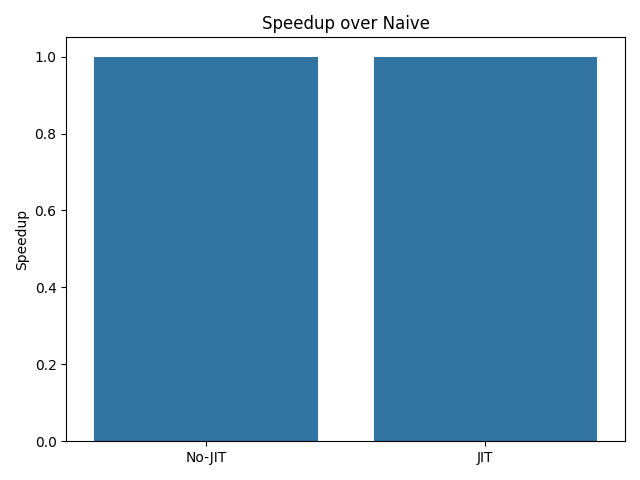
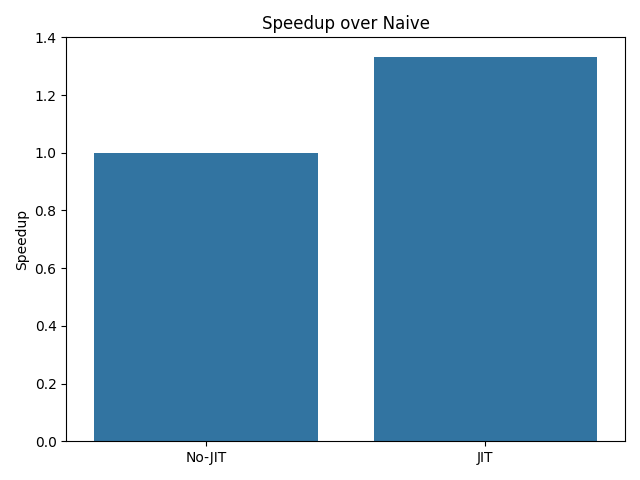
Fixed bug in JIT never being enabled, reverted NCC changes

diff --git a/src/cv2ext/metrics/_ncc.py b/src/cv2ext/metrics/_ncc.py
@@ -26,8 +26,6 @@ _log = logging.getLogger(__name__)
 
 try:
     from numba import jit  # type: ignore[import-untyped]
-
-    from cv2ext.jitfuncs import grayscale_mean, grayscale_std
 except ImportError:
     jit = None
     if _FLAGSOBJ.USEJIT:
@@ -36,16 +34,15 @@ except ImportError:
         )
 
 
-def _get_ncc_impl() -> Callable[[np.ndarray, np.ndarray], float]:
+def _nccjit(
+    nccfunc: Callable[[np.ndarray, np.ndarray], float],
+) -> Callable[[np.ndarray, np.ndarray], float]:
     if _FLAGSOBJ.USEJIT and jit is not None:
-        jitncc: Callable[[np.ndarray, np.ndarray], float] = jit(
-            _core_ncc_jit,
-            nopython=True,
-        )
-        return jitncc
-    return _core_ncc
+        nccfunc = jit(nccfunc, nopython=True)
+    return nccfunc
 
 
+@_nccjit
 def _core_ncc(
     image1: np.ndarray,
     image2: np.ndarray,
@@ -66,35 +63,6 @@ def _core_ncc(
         np.sum(image1_numerator * image2_numerator)
         / (np.sqrt(np.sum(image1_numerator**2)) * np.sqrt(np.sum(image2_numerator**2))),
     )
-
-    # clamp to [-1, 1] incase of floating point errors
-    return max(min(1.0, val), -1.0)
-
-
-def _core_ncc_jit(
-    image1: np.ndarray,
-    image2: np.ndarray,
-) -> float:
-    image1 = image1.astype(np.float32)
-    image2 = image2.astype(np.float32)
-
-    img1mean = grayscale_mean(image1)
-    img2mean = grayscale_mean(image2)
-
-    img1std = grayscale_std(image1, img1mean)
-    img2std = grayscale_std(image2, img2mean)
-
-    if img1std == 0.0 or img2std == 0.0:
-        return 0.0
-
-    image1_numerator = image1 - img1mean / img1std
-    image2_numerator = image2 - img2mean / img2std
-
-    image_numsum = np.sum(image1_numerator * image2_numerator)
-    image1_denomsum = np.sqrt(np.sum(image1_numerator**2))
-    image2_denomsum = np.sqrt(np.sum(image2_numerator**2))
-
-    val = float(image_numsum / (image1_denomsum * image2_denomsum))
 
     # clamp to [-1, 1] incase of floating point errors
     return max(min(1.0, val), -1.0)
@@ -155,4 +123,4 @@ def ncc(
         image1 = cv2.resize(image1, size, interpolation=cv2.INTER_LINEAR)
         image2 = cv2.resize(image2, size, interpolation=cv2.INTER_LINEAR)
 
-    return _get_ncc_impl()(image1, image2)
+    return _core_ncc(image1, image2)

diff --git a/src/cv2ext/__init__.py b/src/cv2ext/__init__.py
@@ -186,11 +186,11 @@ def enable_jit(*, on: bool | None = None) -> None:
     """
     if on is None:
         on = True
-    _FLAGS.USEJIT = on
+    _FLAGSOBJ.USEJIT = on
     _log.info(f"JIT is {'enabled' if on else 'disabled'}.")
 
 
-from . import bboxes, jitfuncs, metrics, template
+from . import bboxes, metrics, template
 from ._display import Display
 from ._iterablevideo import IterableVideo
 
@@ -202,7 +202,6 @@ __all__ = [
     "bboxes",
     "cli",
     "enable_jit",
-    "jitfuncs",
     "metrics",
     "set_log_level",
     "template",

diff --git a/docs/examples.rst b/docs/examples.rst
@@ -4,5 +4,5 @@ Examples
 .. toctree::
     :maxdepth: 1
 
-    examples/display.rst
     examples/iterable_video.rst
+    examples/display.rst
